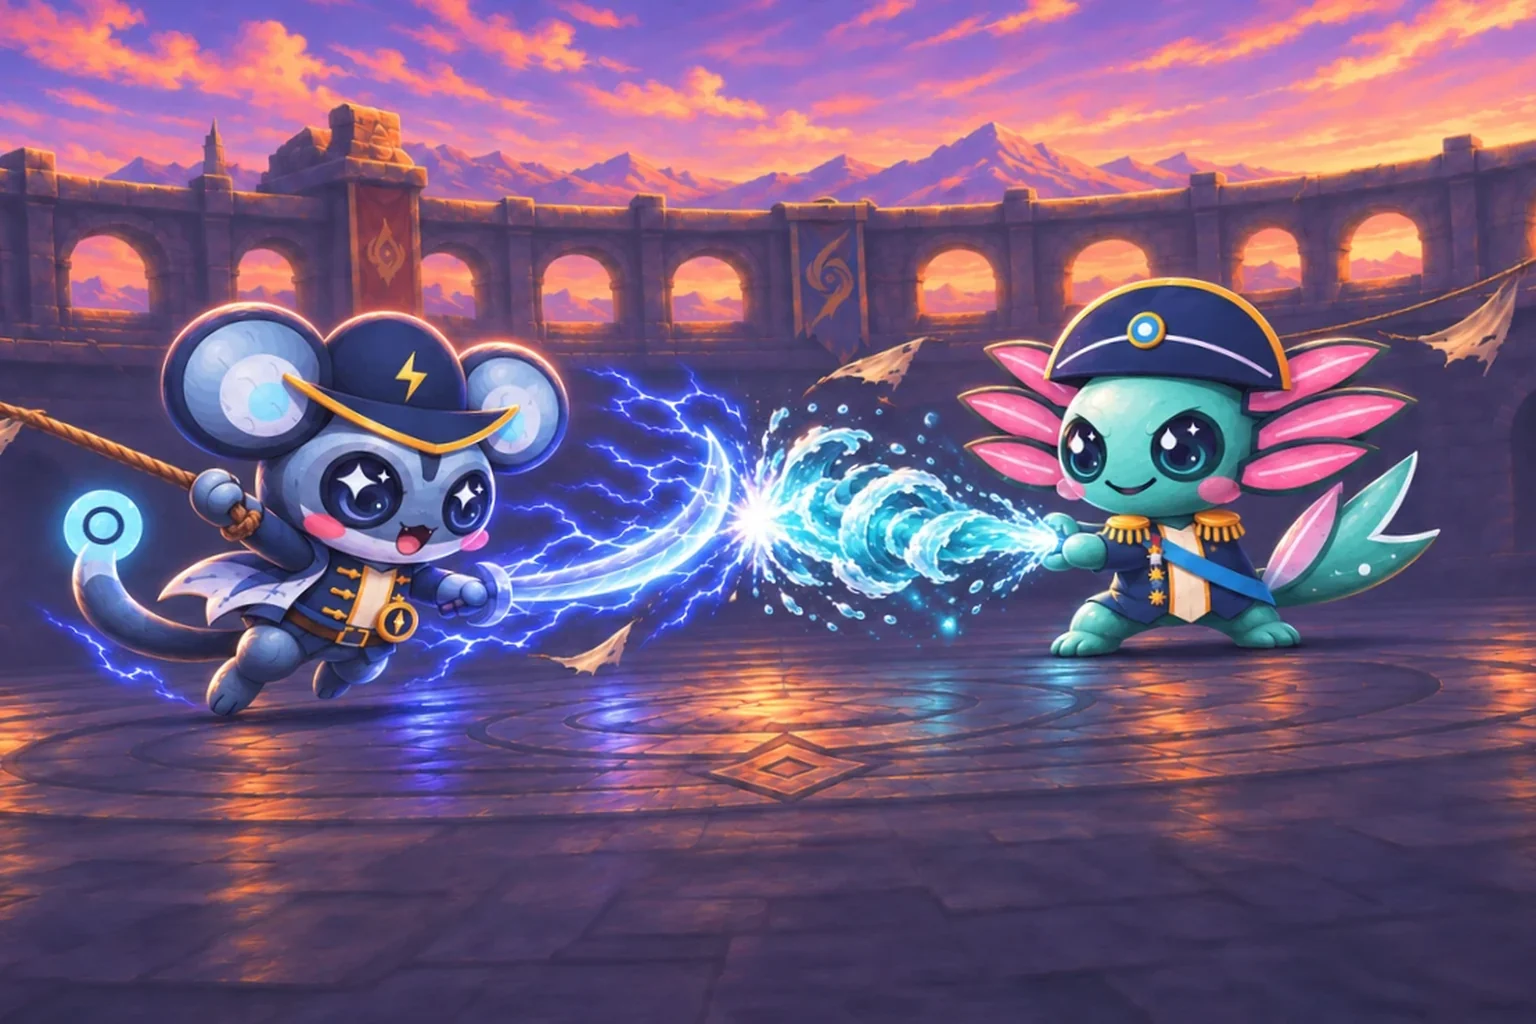
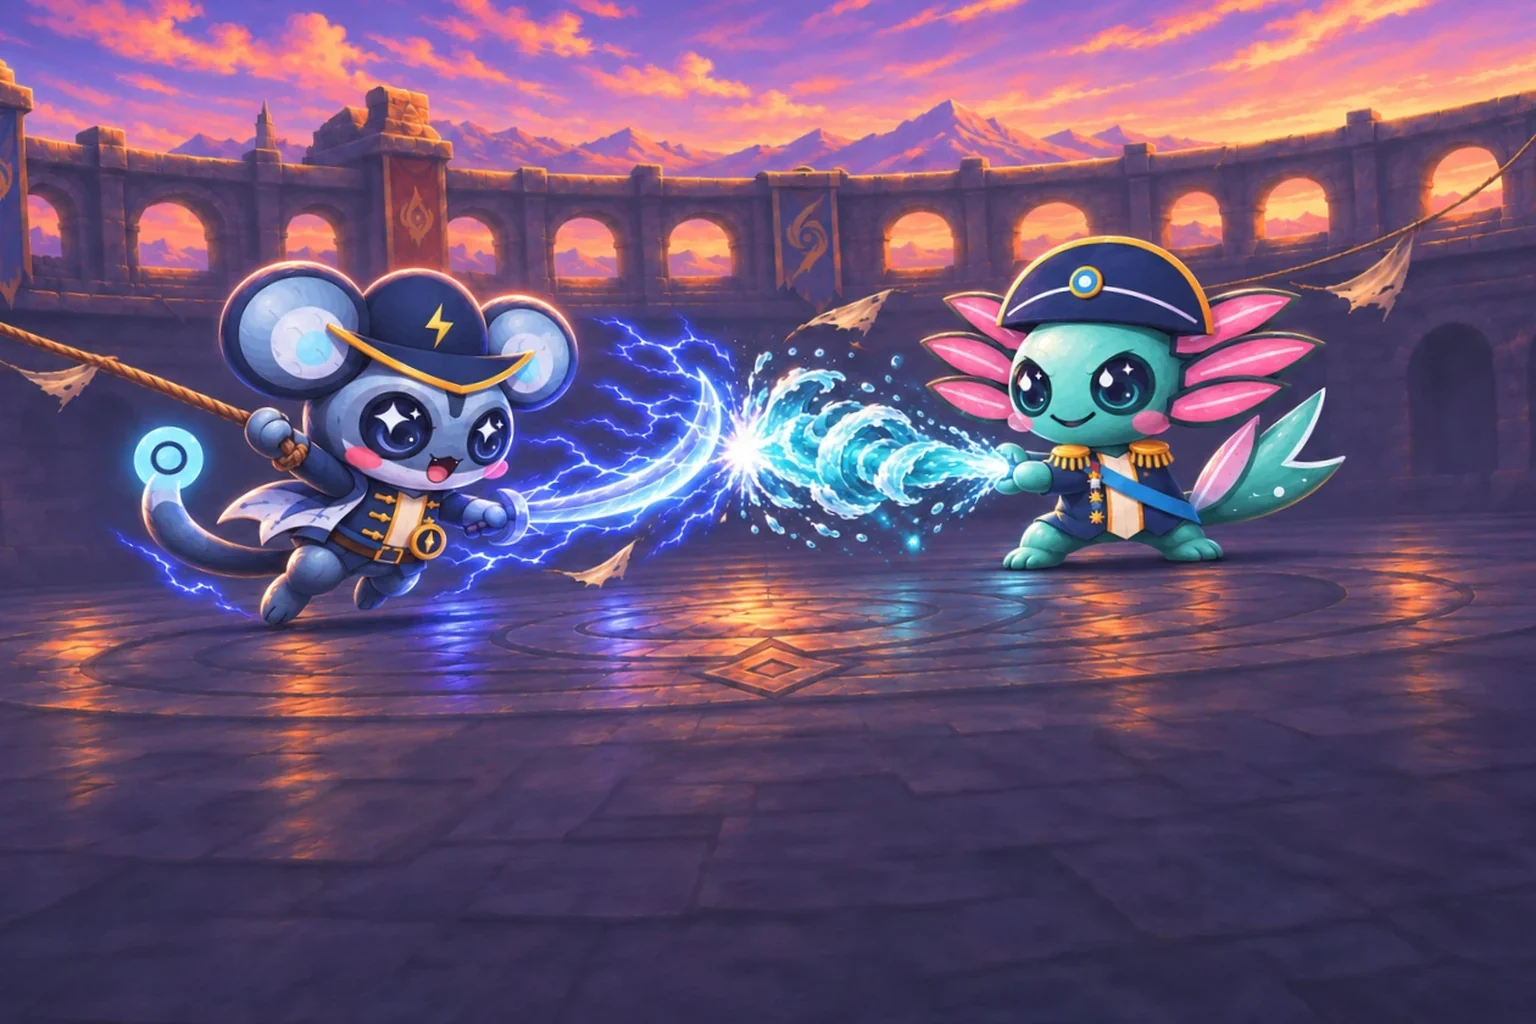
duel-corsairs: the second redraw, higher and a little sharper
ChatGPT's second redraw puts both creatures higher (23-61% of the height),
leaving clear floor between Tidefin and the tip on phones (checked at
844x390, 568x320 and 4:3). It came at 1260x840, scaled up to 1536x1024
(1.22x, against 1.39x for the first redraw), so it is a little sharper,
still softer than a 1536x1024 original.

Claude-Session: https://claude.ai/code/session_01GGURqRH7csW1dmw9oST3pB

diff --git a/docs/loading-art-prompts.md b/docs/loading-art-prompts.md
@@ -245,7 +245,7 @@ Keep each creature exactly like its reference picture.
 
 The first painting, `duel-corsairs` (Voltkit and Tidefin), was redrawn
 this way on 20 Nov: Tidefin stood in the bottom-right quarter, under the
-tip. The redraw came at 1109 x 739 only and was scaled up to 1536 x 1024
+tip. The redraw in use came at 1260 x 840 only and was scaled up to 1536 x 1024
 by hand to pass the import check, so it is softer than the others: swap
 in ChatGPT's original download (1536 x 1024) when it is at hand.
 
